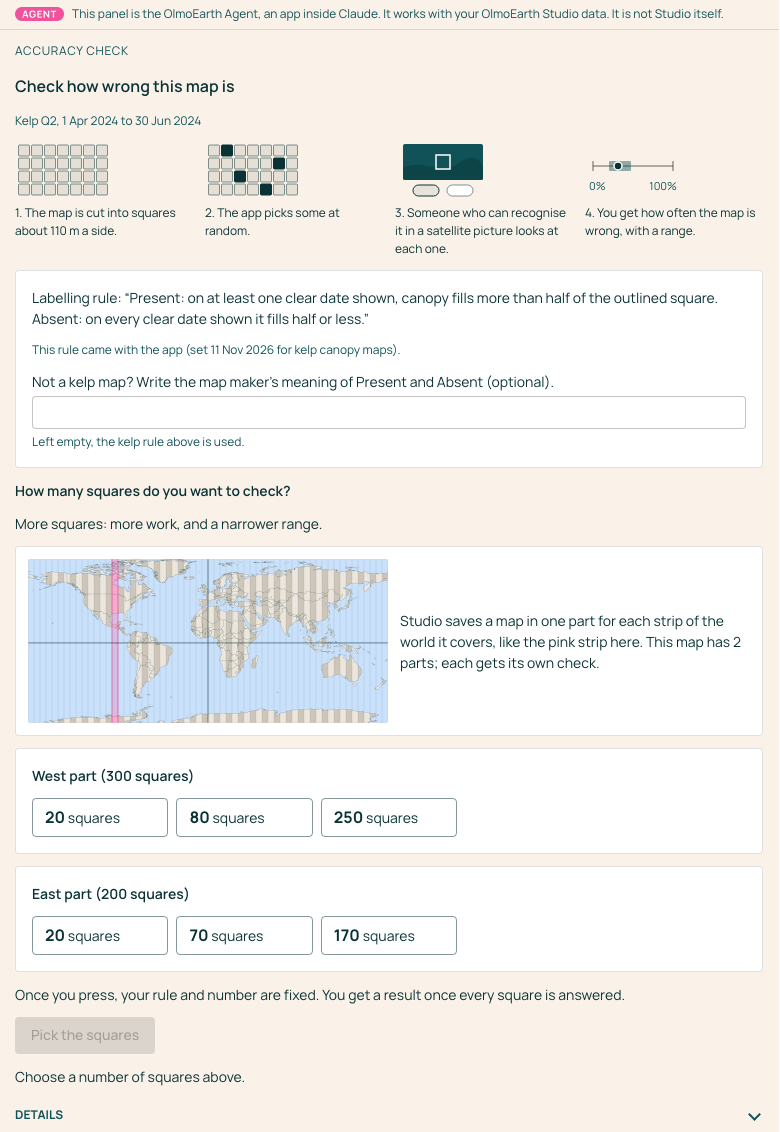
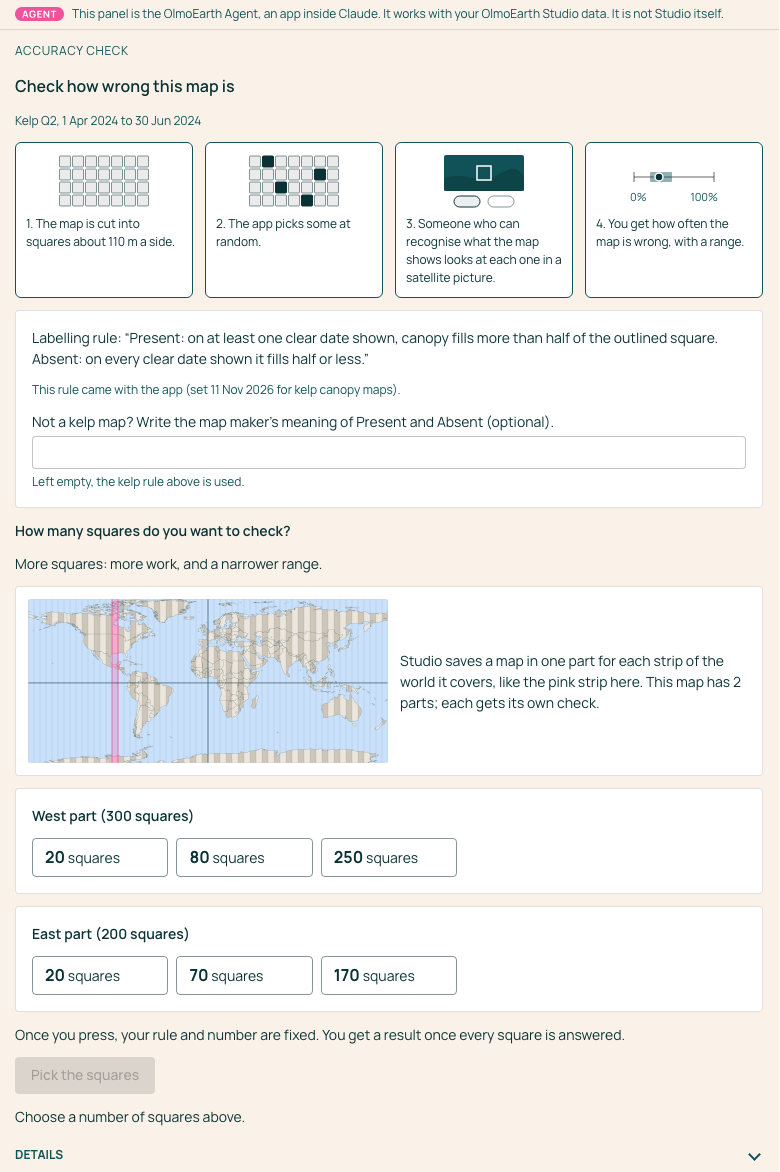
README: screenshots of the current panels
The four screenshots of 'Use in Claude, with panels' now show the panels as
this branch draws them (browser test, made-up data): the start card, the Check
card with its four steps as framed panels, the label sheet, and the result card
with the squares counted by kind (one square per kind, x N).

Changed region(s): [[0.0, 0.0, 0.9538, 0.742], [0.0, 0.773, 0.8, 0.9585], [0.4, 0.7111, 0.5538, 0.742]]

diff --git a/README.md b/README.md
@@ -33,11 +33,11 @@ model; panels beside the chat show each step.
 <table>
 <tr>
 <td width="50%"><img src="docs/images/mcp-app/start.png" alt="Start card: the OlmoEarth overview figure and the three jobs"></td>
-<td width="50%"><img src="docs/images/mcp-app/check.png" alt="Check card: the four steps, the labelling rule, and how many squares to check in each part"></td>
+<td width="50%"><img src="docs/images/mcp-app/check.png" alt="Check card: the four steps as panels, the labelling rule, and how many squares to check in each part"></td>
 </tr>
 <tr>
 <td><img src="docs/images/mcp-app/sheet.png" alt="Label sheet: one square at a time, its answers and Cannot tell"></td>
-<td><img src="docs/images/mcp-app/result.png" alt="Result card: the error rate with its 95% range, and the squares checked"></td>
+<td><img src="docs/images/mcp-app/result.png" alt="Result card: the error rate with its 95% range, and the squares checked, counted by kind"></td>
 </tr>
 </table>
 
